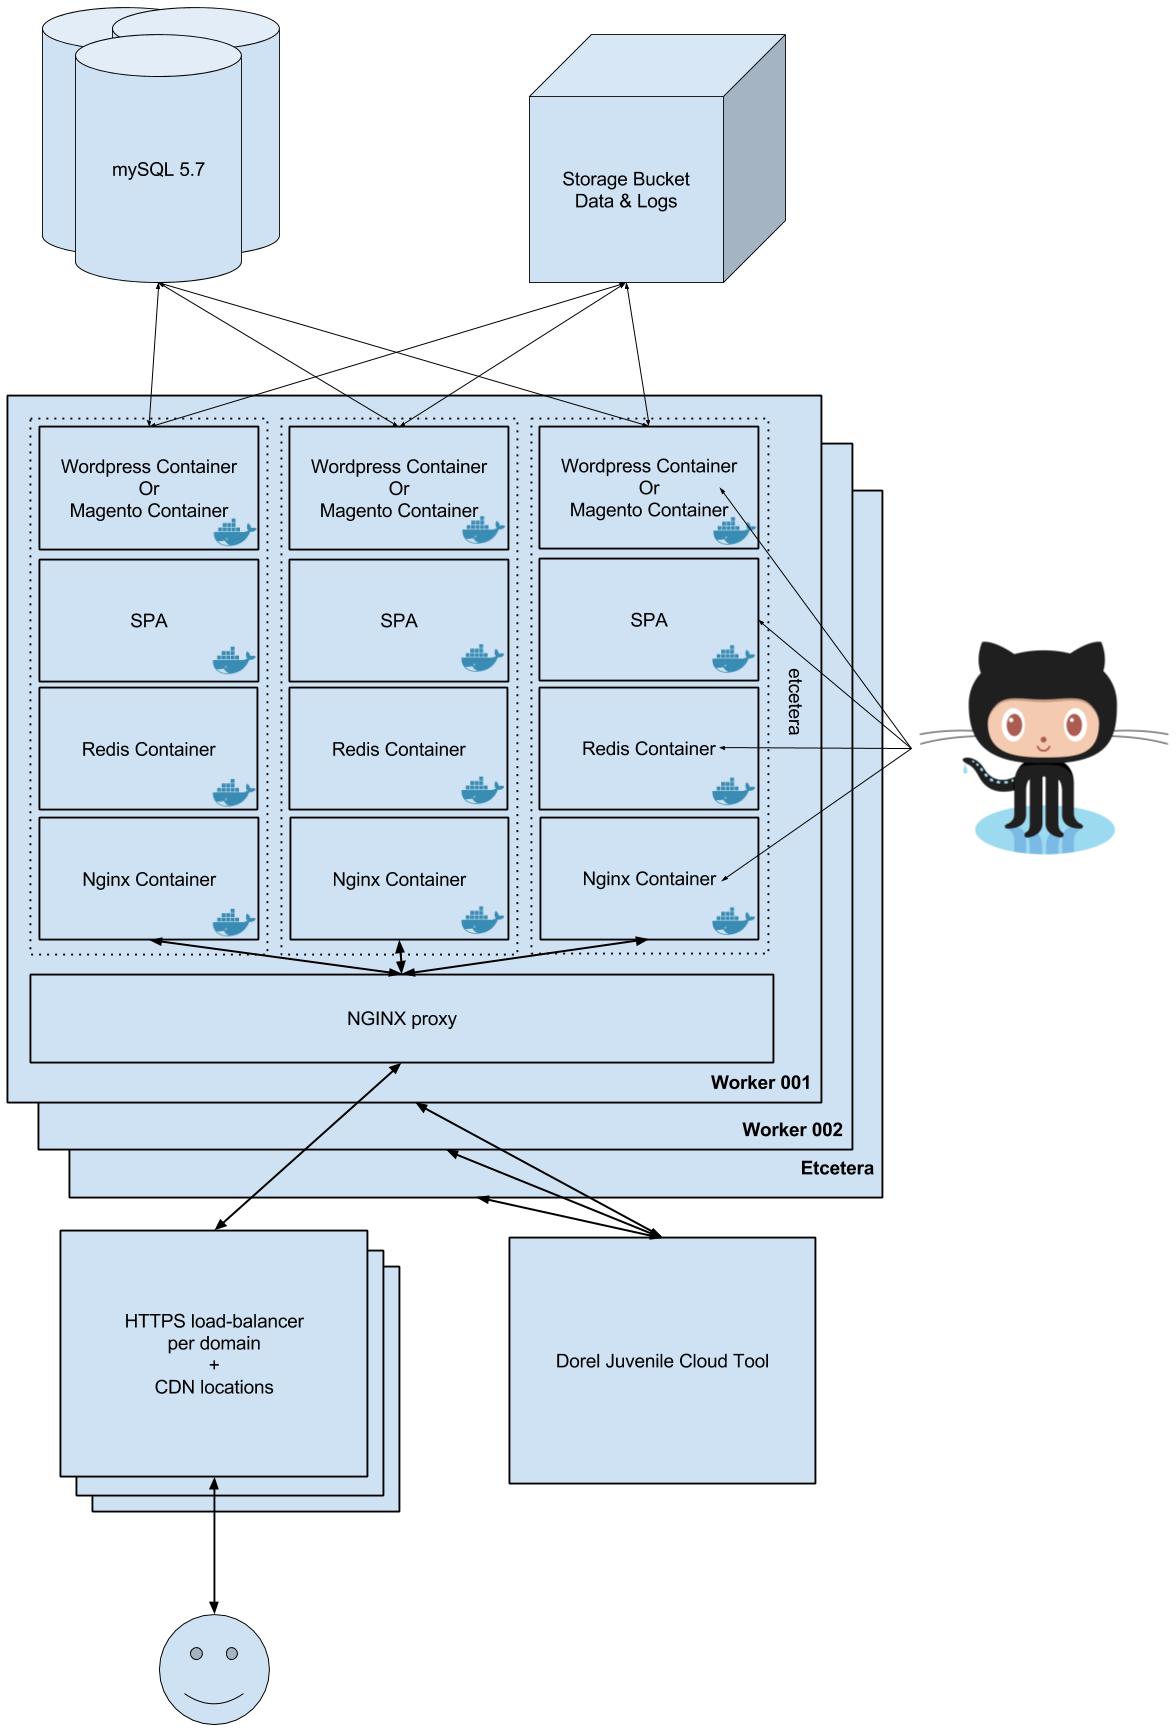
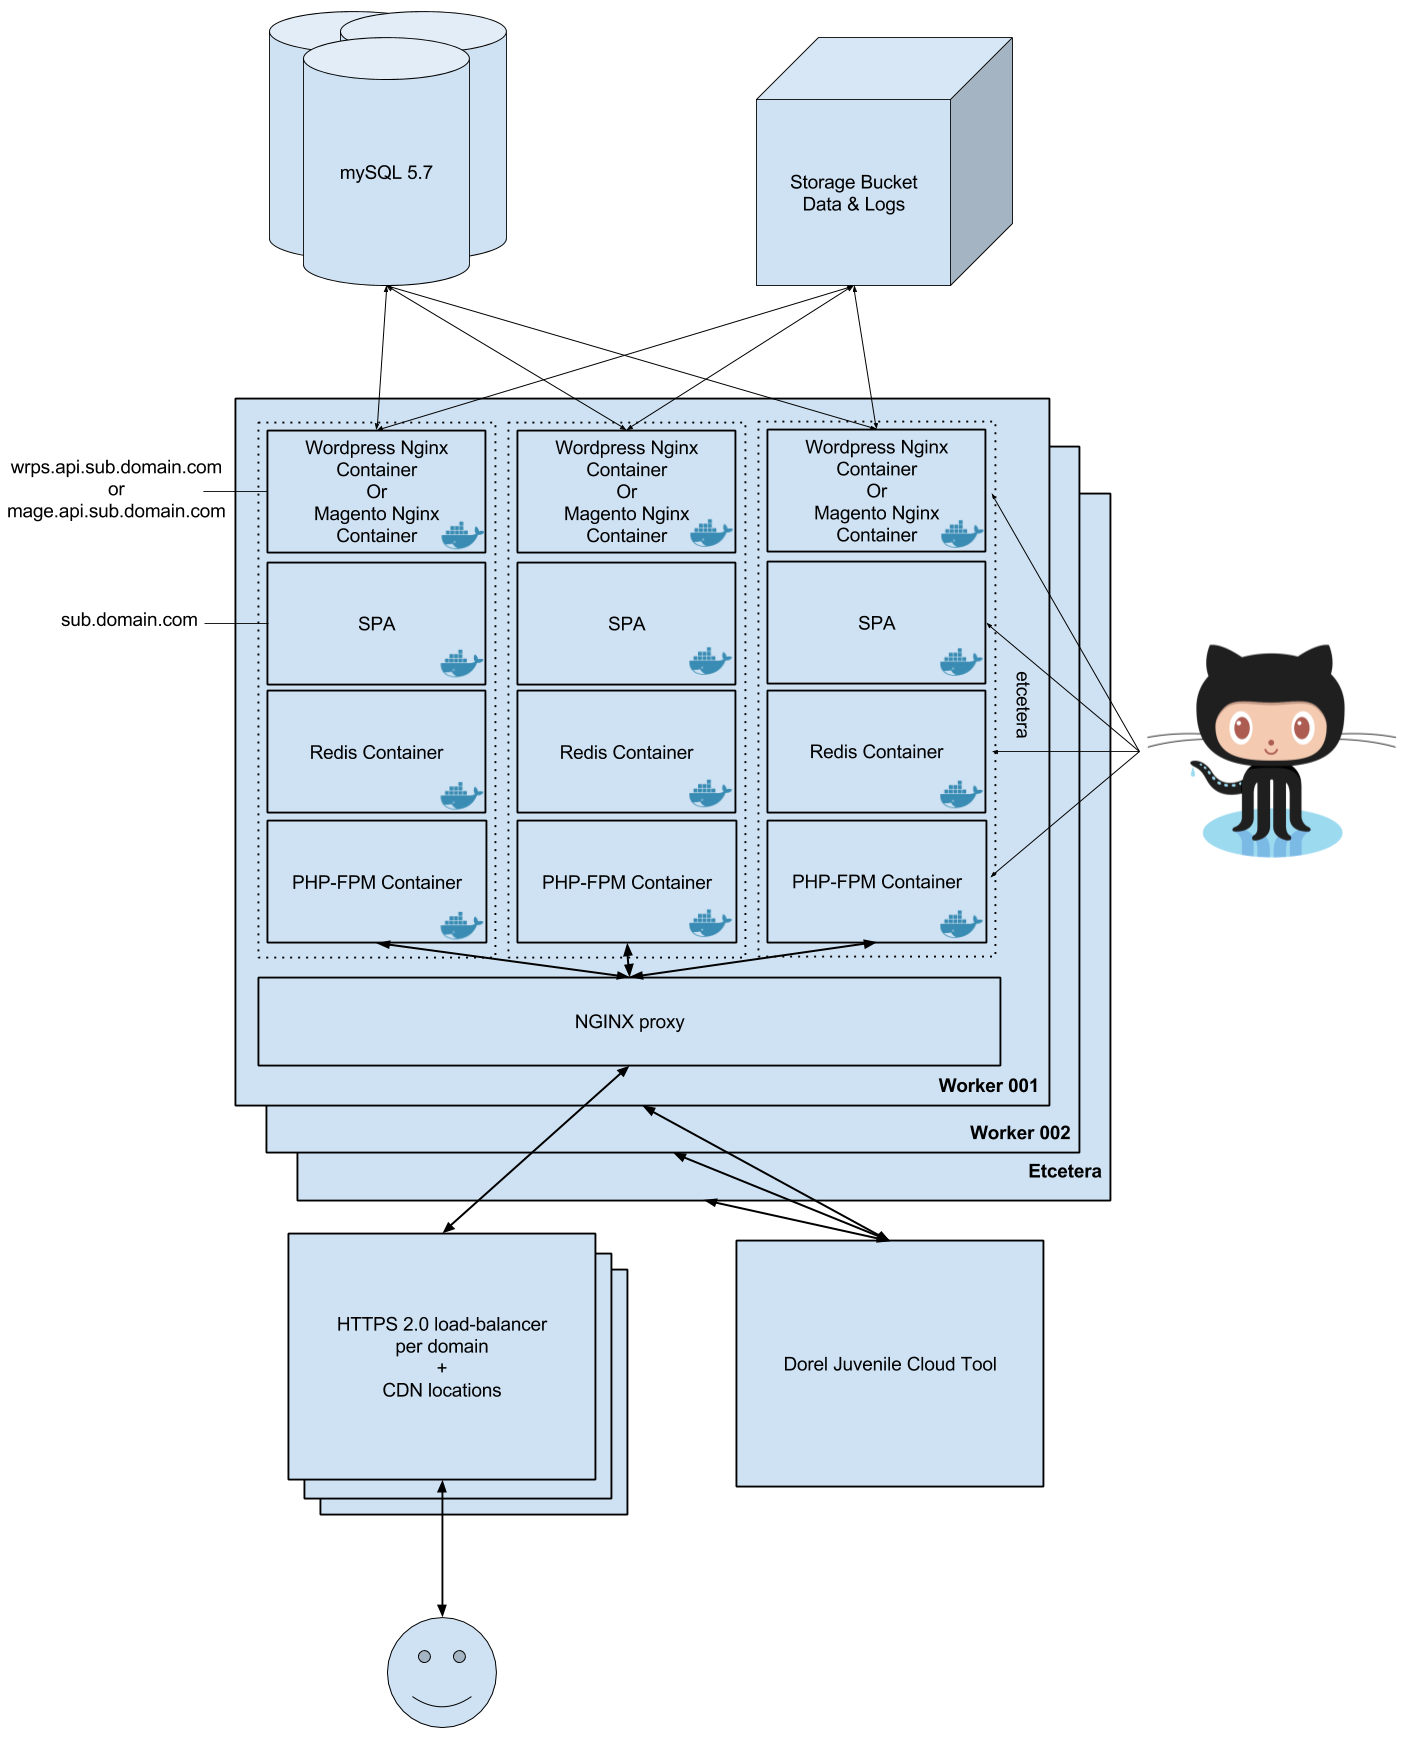
DIO-48: Update scoping explanation

diff --git a/service-manual/global-design-framework/frontend-SPA.md b/service-manual/global-design-framework/frontend-SPA.md
@@ -5,13 +5,14 @@ category: Global Design Framework
 draft: false
 ---
 
-Dorel Juvenile's front-end architecture is based on two core principles. Firstly, Dorel Juvenile's [platform and ecosystems strategy](http://www.dorel.io/service-manual/vision/platforms-and-ecosystems.html), and secondly the [single-page application (SPA)](https://en.wikipedia.org/wiki/Single-page_application) to give users the experience of using a native mobile / desktop application. Practically this means that all Javascript, HTML, and Cascading style sheet (CSS) files are hosted as a static platform-application itself.
+Dorel Juvenile's front-end architecture is based on two core principles. Firstly, Dorel Juvenile's [platform and ecosystems strategy](/service-manual/vision/platforms-and-ecosystems.html), and secondly the [single-page application (SPA)](https://en.wikipedia.org/wiki/Single-page_application) to give users the experience of using a native mobile / desktop application. Practically this means that all Javascript, HTML, and Cascading style sheet (CSS) files are hosted as a static platform-application itself.
 
 General rules for the hosting of the application files:
 
-- All files are set as non-dynamic content as described on the [cloud architecture page](http://www.dorel.io/service-manual/use-technology/cms-cloud-architecture.html).
-- The [framework](http://www.dorel.io/service-manual/global-design-framework/atomic-design.html) URLs should contain a [semver version number](http://semver.org) because of the longevity of the files on the [Point of Presence (PoP) locations](https://peering.google.com/#/infrastructure).
+- All files are set as non-dynamic content as described on the [cloud architecture page](/service-manual/use-technology/cms-cloud-architecture.html).
+- The [SPA and framework](/service-manual/global-design-framework/atomic-design.html) is the source of the domain of a website. When the framework is updated, the [Point of Presence (PoP) locations](https://peering.google.com/#/infrastructure) will be invalidated. For more information see [&para; Scoping of platforms bullet point 2](/service-manual/use-technology/cms-cloud-architecture.html)/service-manual/use-technology/cms-cloud-architecture.html
 - The platform is the content delivery platform. Meaning that there is no middleware to deliver the content from the server to the PoP locations.
+- For more information on the URL structures of all platforms, read [&para; Scoping of platforms](/service-manual/use-technology/cms-cloud-architecture.html).
 
 ## Polymer
 
@@ -19,11 +20,11 @@ Dorel Juvenile uses [W3C](https://w3.org) standard based [web components](https:
 
 ## PRPL pattern
 
-Dorel Juvenile uses the [PRPL pattern](https://www.polymer-project.org/1.0/toolbox/server#prpl-pattern) and HTTP2 to deliver content to the SPA. A diagram of the architecture including the SPAs are available on the [container architecture](http://www.dorel.io/service-manual/use-technology/container-architecture.html) page.
+Dorel Juvenile uses the [PRPL pattern](https://www.polymer-project.org/1.0/toolbox/server#prpl-pattern) and HTTP2 to deliver content to the SPA. A diagram of the architecture including the SPAs are available on the [container architecture](/service-manual/use-technology/container-architecture.html) page.
 
 ## Polymer elements for integrating with Dorel Juvenile's platforms. 
 
-Dorel Juvenile's [platform and ecosystems strategy](http://www.dorel.io/service-manual/use-technology/container-architecture.html) defines platforms as having RESTful API's and being single purpose. That means that every data source is on a specific platform serving a specific service. Examples of platform services are; e-commerce, CMS content, analytics, etcetera.
+Dorel Juvenile's [platform and ecosystems strategy](/service-manual/use-technology/container-architecture.html) defines platforms as having RESTful API's and being single purpose. That means that every data source is on a specific platform serving a specific service. Examples of platform services are; e-commerce, CMS content, analytics, etcetera.
 
 Every platform should have their own element. A page can have multiple elements to request content from different API's.
 
@@ -32,6 +33,7 @@ Every platform should have their own element. A page can have multiple elements 
 Every data request should extend the `window._collect` object, followed by a four letter abbreviation and a key if needed. Everything after this should follow the path of the RESTful API definition.
 
 Two important architectural directions to bear in mind when creating new custom elements:
+
 - In case an API supports filtering, the filter should be set to only request the information needed. In the example below only the `name`, `weight` and `bundle_product_options` information is requested.
 - Requesting information through an element should be possible in two ways; *soft* and *hard*. Soft means that a request will first travel through the `_collect` object and use the information if it already exists. Hard means that it will always collect it from the API.
 

diff --git a/service-manual/use-technology/cms-cloud-architecture.md b/service-manual/use-technology/cms-cloud-architecture.md
@@ -13,6 +13,15 @@ _Note: click [here](./container-architecture.html) for the container architectur
 
 As defined in the [holistic strategy](../../strategy/holistic), Dorel Juvenile uses a platform strategy to connect all services. Thoese services are delivered through their respective APIs and can be consumed by other platforms.
 
+## Scoping and configuration of platforms
+
+As shown in the [container architecture diagram](/service-manual/use-technology/container-architecture.html), the domain scoping will be as follows:
+
+- All containers that have RESTful API's exposed should have the following domain setup: [API name].api.[subdomain].[domain].[top-level domain]. For example: mage.api.www.maxicosi.com for the Magento 2 RESTful API.
+- The only exception is the Single Page Application (SPA). This application should be available through: [subdomain].[domain].[top-level domain].
+
+Also note that the following rule applies to the source code: _"All containers should have source code implemented from one unique Github Repository"_. Meaning that every container should have -in case needed- its own Github Repository.
+
 ## Leveraging Point of Presence and Content Delivery Network locations.
 
 Google Cloud consists of a [large network of PoP locations](https://peering.google.com/#/infrastructure) that Dorel Juvenile uses to deliver content to customers as quick as possibe. To learn more about the Google Cloud CDN concept visit [this page](https://cloud.google.com/cdn/docs/caching).
@@ -27,6 +36,7 @@ Dorel Juvenile defines content as follows:
 Non-dynamic content is often in the form of Javascript, Cascading Style Sheets and images.
 
 Headers:
+
 ```
 Expires: 1y;             # Expires after one year
 Cache-Control: "public"; # Enable cache for PoP locations
@@ -39,6 +49,7 @@ Semi-dynamic content is often in the form of dynamically generated posts that ha
 _Note: this content should be [invalidated](https://cloud.google.com/cdn/docs/invalidating-cached-content) when it is updated._
 
 Headers:
+
 ```
 Expires: 233s;           # Expires after the average web visit time
 Cache-Control: "public"; # Enable cache for PoP locations
@@ -49,6 +60,7 @@ Cache-Control: "public"; # Enable cache for PoP locations
 Super dynamic content is content that needs a server interaction to render. An example might be dynamic pricing, a shopping cart or a checkout process.
 
 Headers:
+
 ```
 Expires: 0;                # Expires after the average web visit time
 Cache-Control: "no-cache"; # Enable cache for PoP locations
